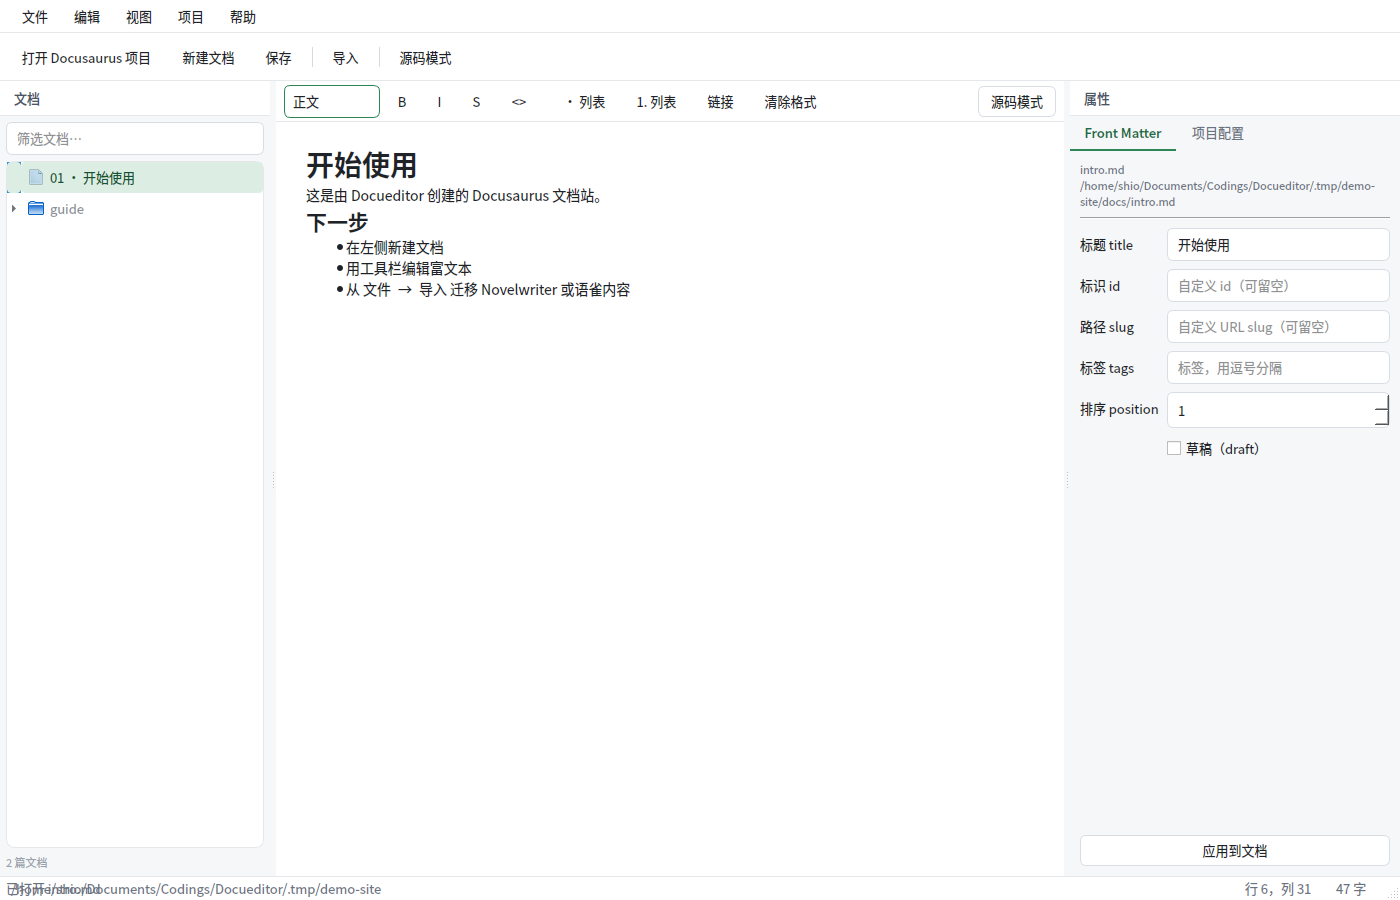
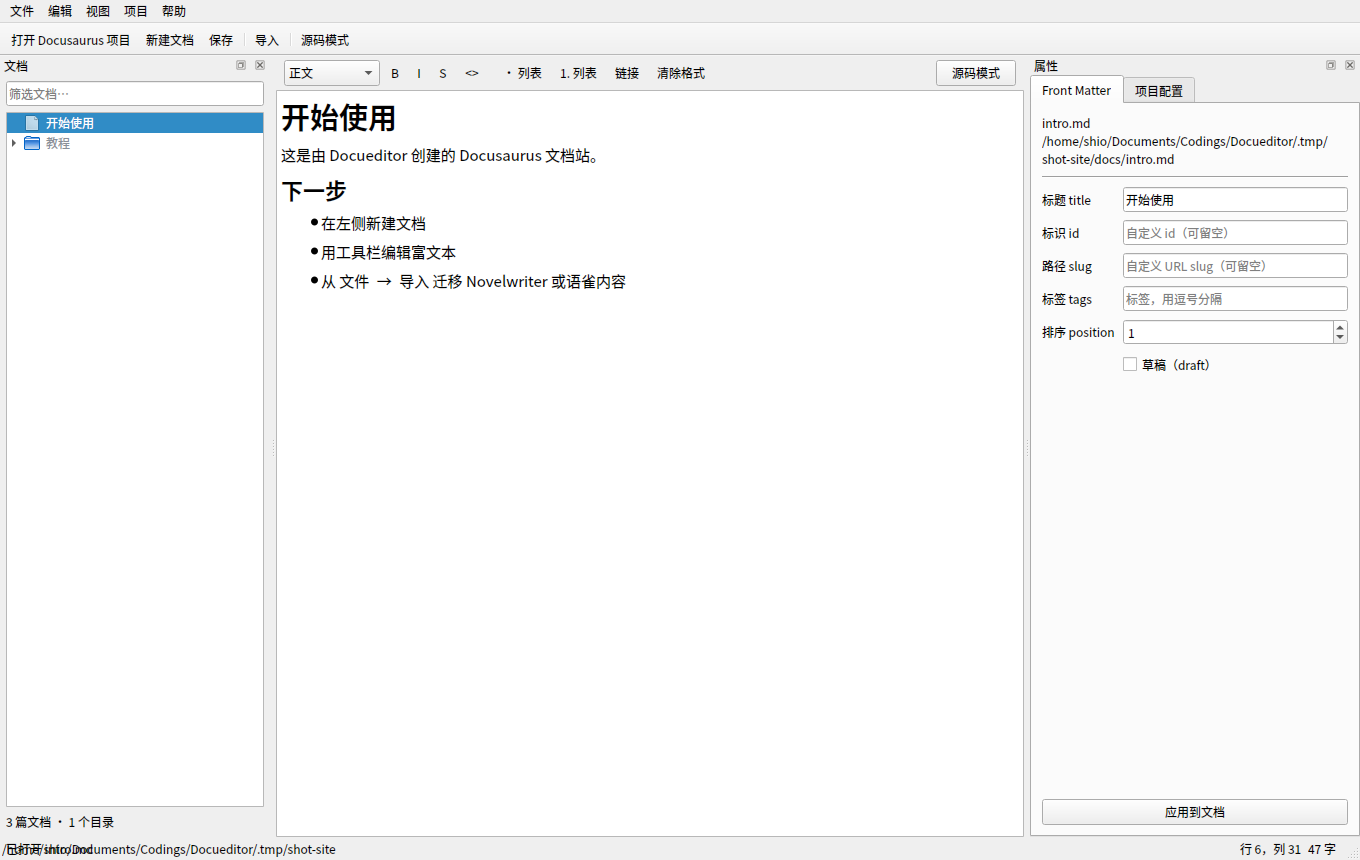
chore: 发布 0.4.0，更新界面截图

diff --git a/src/docueditor/__init__.py b/src/docueditor/__init__.py
@@ -3,7 +3,7 @@
 This is a vibe-coding project: readable, pragmatic, and built to be changed.
 """
 
-__version__ = "0.3.0"
+__version__ = "0.4.0"
 __license__ = "GPL-3.0-only"
 
 APP_NAME = "Docueditor"
